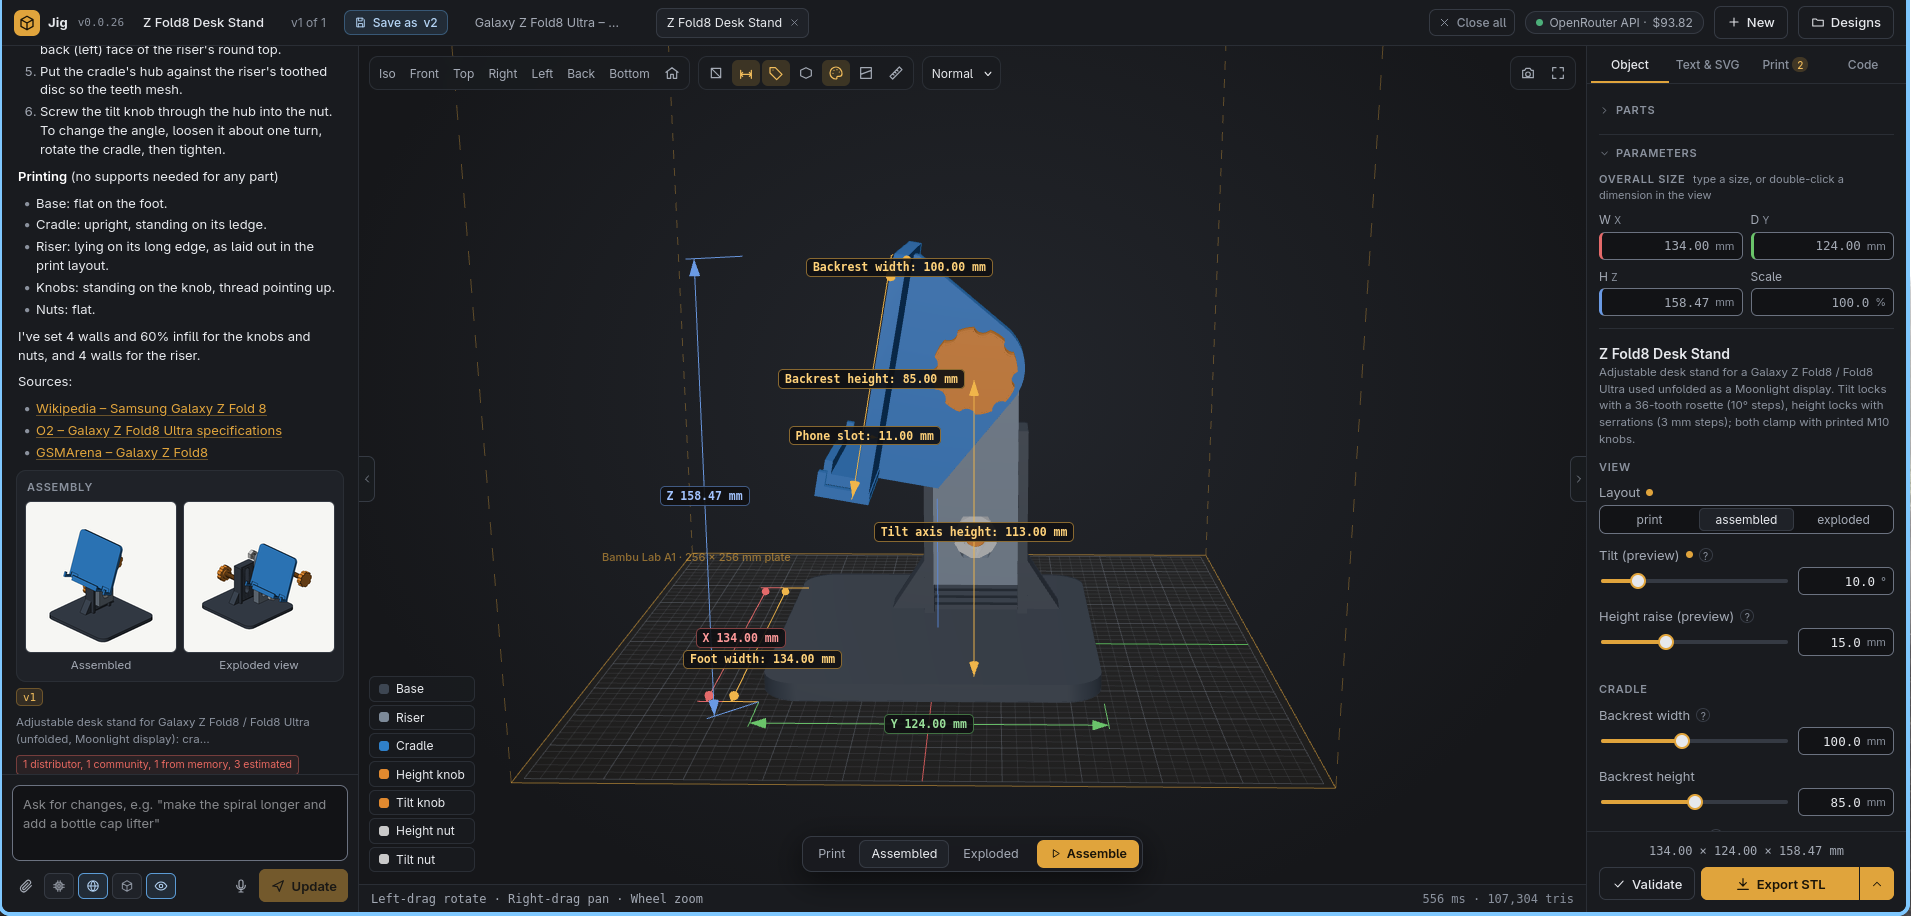
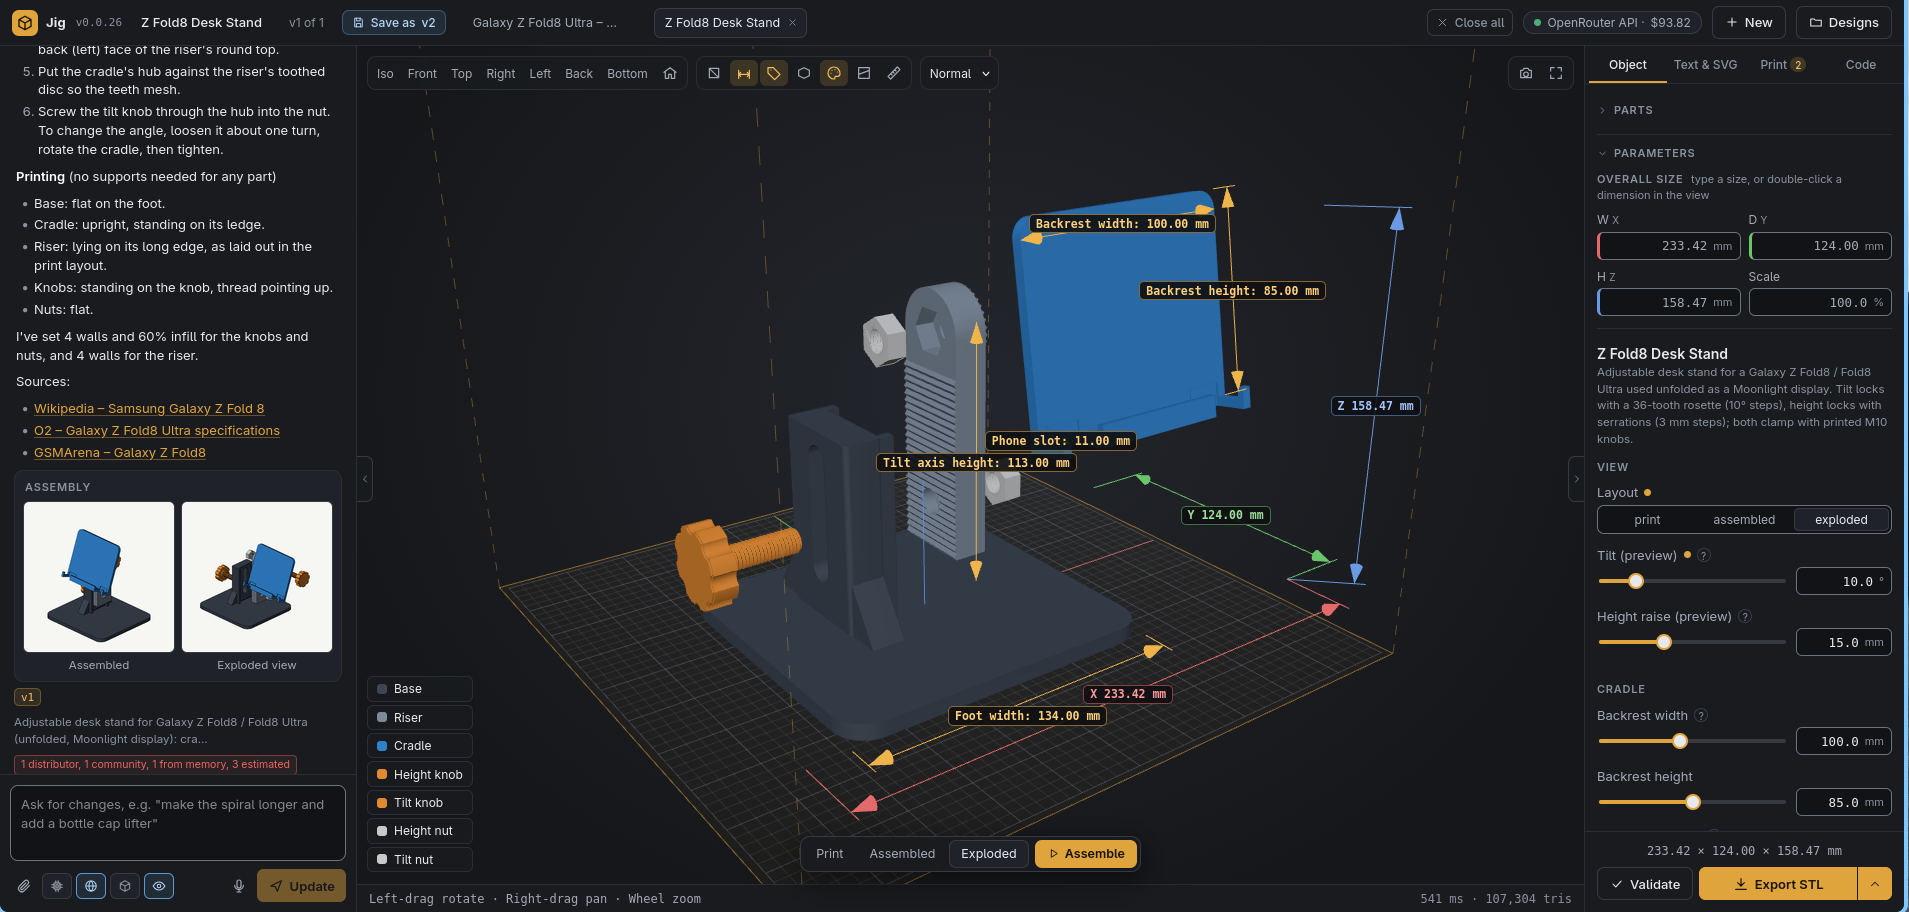
docs(readme): the screenshot shows the stand exploded

diff --git a/README.md b/README.md
@@ -2,7 +2,7 @@
 
 AI-powered parametric CAD for 3D printing. Describe an object (and/or attach photos, SVG drawings, OpenSCAD files or 3D models). Jig writes a parametric model with sliders and dimension callouts, checks it, looks at renders of it, and stress-tests the sliders' extremes. You tweak it live, add text or logos, check that it prints, see what it costs to print, and export STL, a Bambu Studio project or a Blender file.
 
-![Jig: the chat with the reply and its sources on the left, a desk stand assembled in the 3D view with its dimensions, the parts list and the sliders on the right](docs/screenshot.png)
+![Jig: the chat with the reply and its sources on the left, a desk stand in an exploded view with its dimensions, the parts list and the sliders on the right](docs/screenshot.png)
 
 Jig runs Claude through the Claude Agent SDK, with an OpenRouter key (`OPENROUTER_API_KEY`, which also powers AI artwork) or an Anthropic API key (`ANTHROPIC_API_KEY`). See [Claude account or API key](#claude-account-or-api-key).
 
